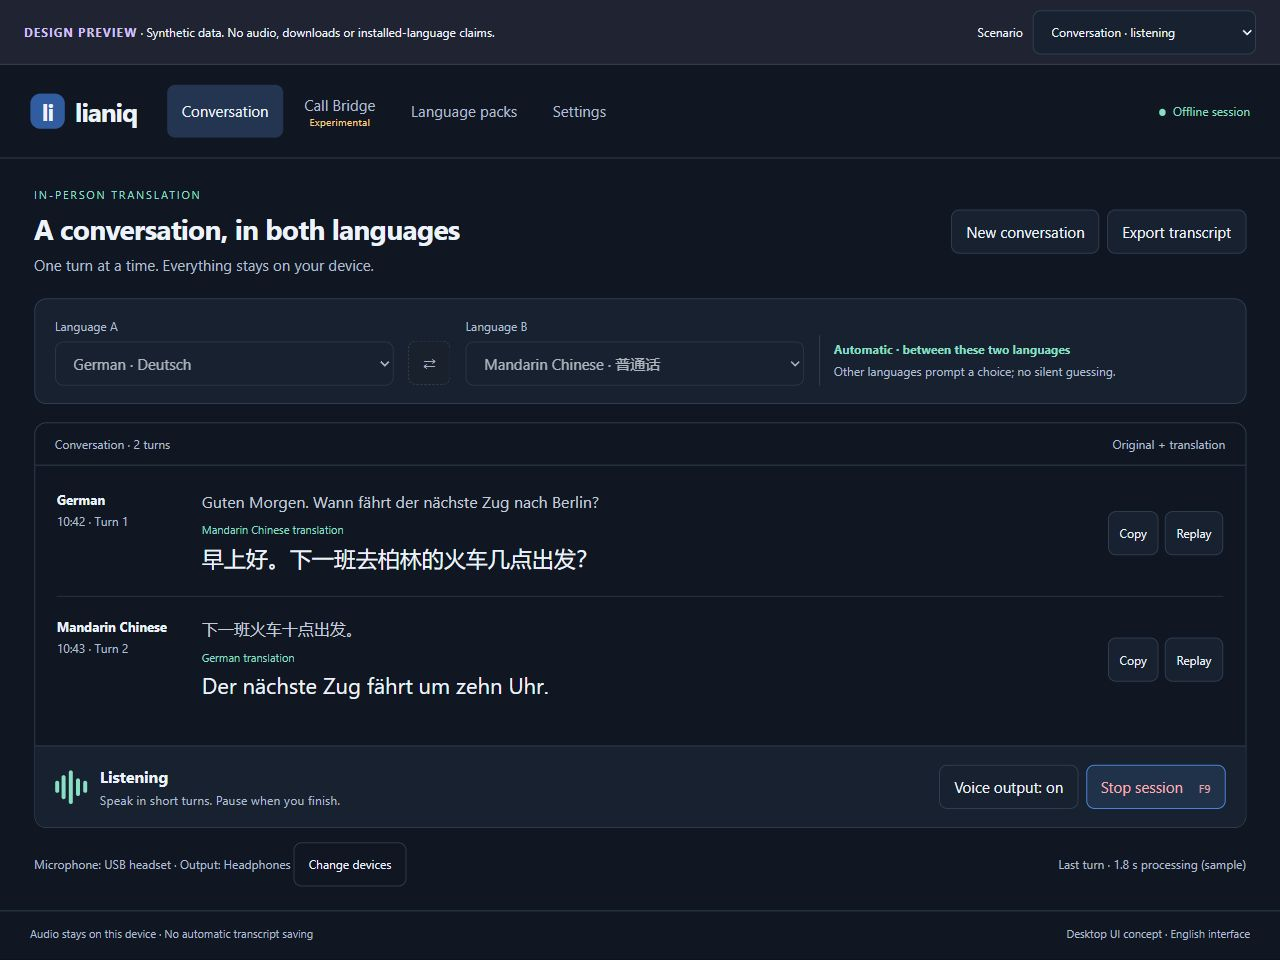
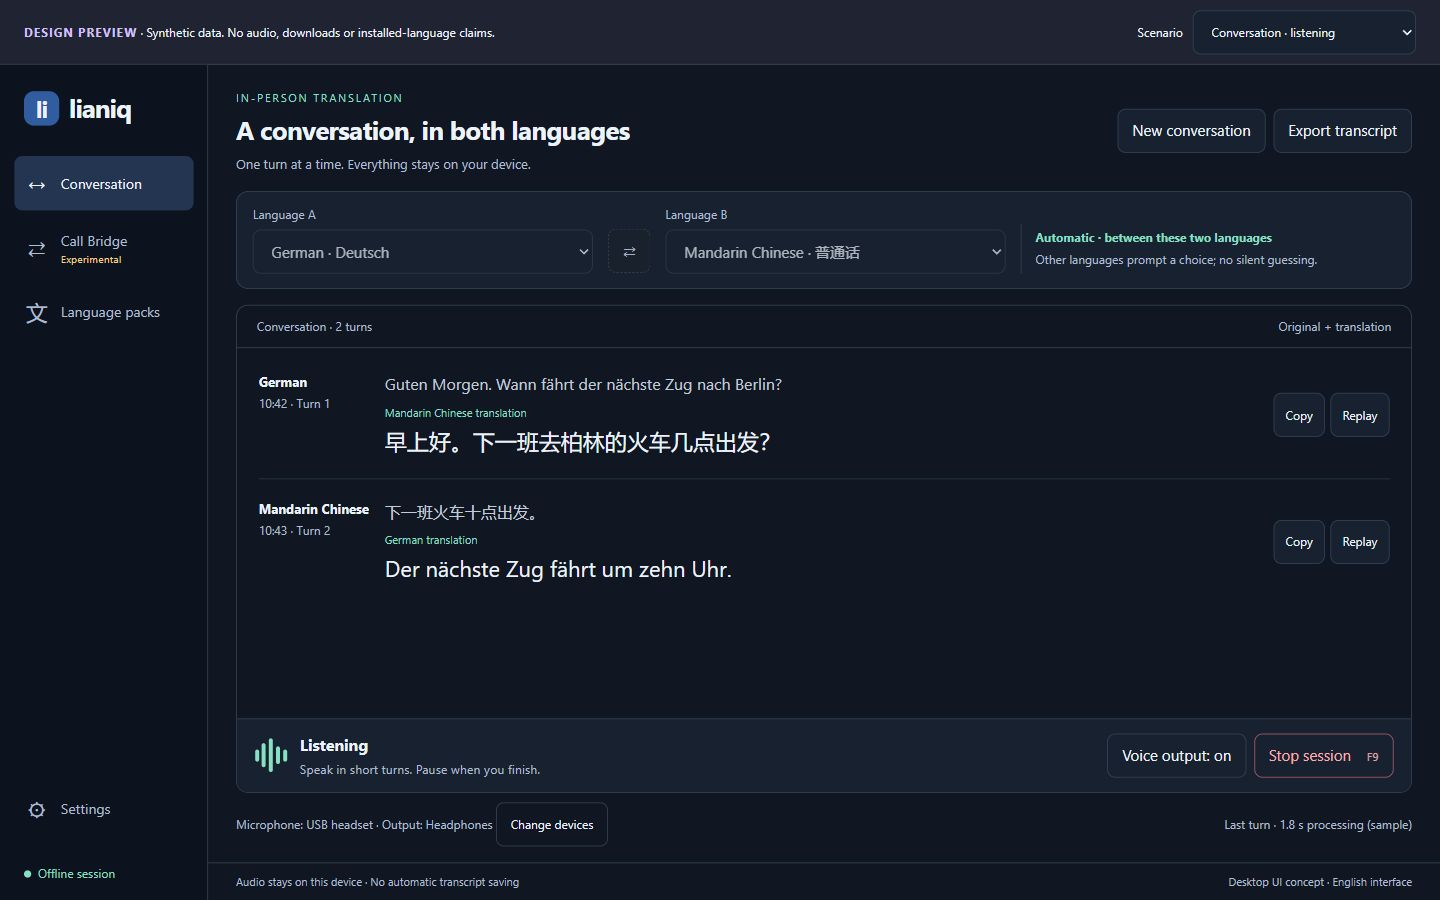
docs: revise target UI for left navigation and landscape desktop

diff --git a/docs/ui/target/styles.css b/docs/ui/target/styles.css
@@ -4,3 +4,106 @@
 @media(max-width:1050px){.app-header{gap:18px;flex-wrap:wrap}.privacy{margin-left:auto}.app-header nav{order:3;flex-basis:100%}.pair-bar{grid-template-columns:1fr auto 1fr}.pair-note{grid-column:1/-1;border-left:0;padding:0;border-top:1px solid var(--line);padding-top:10px}.turn{grid-template-columns:95px 1fr}.turn-actions{grid-column:2}.two-col{gap:14px}.preview-bar{flex-wrap:wrap}}
 @media(max-width:720px){main{padding:20px 16px}.app-header{padding:16px}.app-header nav{flex-wrap:wrap}.app-header nav button{flex:1}.heading,.session-controls,.device-strip,.bridge-footer,.app-footer{align-items:flex-start;flex-direction:column}.two-col,.setup{grid-template-columns:1fr}.pair-bar{padding:14px;gap:10px}.pair-bar label{font-size:11px}.pair-bar select{font-size:13px;padding:9px 5px}.swap{padding:9px}.turn{grid-template-columns:1fr;gap:9px}.turn-actions{grid-column:1}.turn-meta{display:flex;gap:12px}.translation{font-size:20px}.pack{grid-template-columns:1fr 1fr}.table-head{display:none}.settings-fields{grid-template-columns:1fr}.steps{display:flex;flex-wrap:wrap;gap:5px;font-size:12px}.steps li{padding:8px}.preview-bar{padding:10px 16px}.preview-bar label{width:100%}.preview-bar select{max-width:100%;flex:1}.app-footer{gap:5px}.route-bottom{flex-wrap:wrap}}
 @media(prefers-reduced-motion:reduce){*{scroll-behavior:auto}}
+
+/* Desktop shell: persistent left navigation and a landscape workspace. */
+.app {
+  display:grid;
+  grid-template-columns:208px minmax(0,1fr);
+  grid-template-rows:minmax(0,1fr) auto;
+  max-width:none;
+  height:calc(100vh - 65px);
+  min-height:0;
+}
+.app-header {
+  grid-row:1 / -1;
+  display:flex;
+  flex-direction:column;
+  align-items:stretch;
+  flex-wrap:nowrap;
+  gap:28px;
+  padding:24px 14px 18px;
+  border-bottom:0;
+  border-right:1px solid var(--line);
+  background:#0c131e;
+  min-height:0;
+  overflow:auto;
+}
+.brand {padding:0 10px}
+.app-header nav {
+  display:flex;
+  flex-direction:column;
+  gap:8px;
+  flex:1;
+  order:initial;
+}
+.app-header nav button {
+  display:flex;
+  align-items:center;
+  gap:12px;
+  text-align:left;
+  min-height:48px;
+  padding:10px;
+  flex:none;
+}
+.app-header nav button:last-child {margin-top:auto}
+.nav-icon {width:24px;flex-shrink:0;text-align:center;font-size:22px}
+.nav-label {font-size:14px}
+.tiny {margin-top:4px}
+.privacy {margin:0;padding:0 10px}
+main {min-width:0;min-height:0;overflow:auto;padding:24px 28px 16px}
+.app-footer {grid-column:2;padding:10px 28px;font-size:11px}
+.heading {margin-bottom:18px;gap:16px}
+h1 {font-size:26px}
+.heading p {font-size:13px}
+.pair-bar {padding:14px 16px;margin-bottom:16px;grid-template-columns:minmax(0,1fr) auto minmax(0,1fr) minmax(0,1.1fr)}
+.pair-note {grid-column:auto;border-top:0;border-left:1px solid var(--line);padding:5px 0 5px 14px}
+.two-col {grid-template-columns:minmax(0,1fr) minmax(0,1fr)}
+.panel {padding:18px}
+.route-head {margin-bottom:16px}
+.route-step {padding-bottom:14px}
+.route-bottom {margin-top:14px;padding-top:12px}
+.help {margin:14px 0;padding:12px 15px}
+.bridge-footer {margin-top:14px}
+.pack {padding:15px 0;grid-template-columns:minmax(130px,1fr) 1.2fr 1fr auto}
+.table-head {grid-template-columns:minmax(130px,1fr) 1.2fr 1fr auto}
+main[data-surface="conversation"] {display:flex;flex-direction:column}
+.conversation {display:flex;flex-direction:column;flex:1;min-height:260px}
+.turns {min-height:0;flex:1;overflow:auto}
+.turn {grid-template-columns:110px minmax(0,1fr) auto;gap:16px}
+.turn-actions {grid-column:auto}
+.session-controls {flex-shrink:0;padding:14px 18px}
+.empty {min-height:240px}
+.device-strip {margin-top:10px}
+.setup {grid-template-columns:180px minmax(0,1fr);gap:24px}
+main[data-surface="bridge"] .panel {padding:14px}
+main[data-surface="bridge"] .route-head {margin-bottom:10px}
+main[data-surface="bridge"] .route-step {padding-bottom:8px}
+main[data-surface="bridge"] .route-bottom {margin-top:10px;padding-top:10px}
+main[data-surface="bridge"] .banner {padding:10px 16px;margin-bottom:12px}
+main[data-surface="bridge"] .help {margin:10px 0;padding:10px 14px}
+main[data-surface="bridge"] .bridge-footer {position:sticky;bottom:0;background:var(--bg);padding:10px 0;margin-top:0}
+@media(max-width:1150px) {
+  .app {grid-template-columns:72px minmax(0,1fr)}
+  .app-header {padding:20px 10px 14px}
+  .brand {font-size:0;padding:0;justify-content:center;gap:0}
+  .brand-mark {font-size:23px}
+  .nav-label,.privacy {display:none}
+  .app-header nav button {justify-content:center;padding:10px 0}
+  main {padding:20px}
+  .heading {flex-wrap:wrap}
+  .pair-bar {grid-template-columns:minmax(0,1fr) auto minmax(0,1fr)}
+  .pair-note {grid-column:1/-1;border-left:0;border-top:1px solid var(--line);padding:8px 0 0}
+  .turn {grid-template-columns:90px minmax(0,1fr)}
+  .turn-actions {grid-column:2}
+  .session-controls {flex-wrap:wrap}
+}
+@media(max-width:760px) {
+  .app {height:calc(100vh - 114px)}
+  .two-col,.setup {grid-template-columns:minmax(0,1fr)}
+  .pack {grid-template-columns:minmax(0,1fr) minmax(0,1fr)}
+  .table-head {display:none}
+  .heading,.session-controls,.device-strip,.bridge-footer {align-items:flex-start;flex-direction:column}
+  .turn {grid-template-columns:minmax(0,1fr)}
+  .turn-actions {grid-column:1}
+  .app-footer {padding:10px 20px}
+}

diff --git a/docs/ui/target/preview.js b/docs/ui/target/preview.js
@@ -56,6 +56,7 @@ function setup() {
   setupStep===1?'<p>Generic devices below illustrate the setup flow.</p><div class="settings-fields"><label class="field">Microphone<select><option>USB headset · microphone</option></select></label><label class="field">Playback device<select><option>Headphones · local playback</option></select></label></div><div class="actions"><button data-action="mic-test">Test microphone</button><button data-action="speaker-test">Play test sound</button><button data-action="refresh">Refresh devices</button></div><div class="help">A disconnected or ambiguous device requires your attention. Call Bridge never switches silently to Windows default audio.</div>':`<p>${name(first)} ↔ ${name(second)}</p><div class="help"><strong>Example readiness summary</strong><br>✓ Speech recognition for both selected languages<br>✓ Both translation directions<br>✓ Microphone and headphones selected<br>Voice output is optional for in-person text translation.</div><label class="check"><input type="checkbox" ${voicesReady()?'checked':'disabled'}> Enable spoken translations when both voices are ready</label><p class="muted">No transcript is saved automatically. Export only when you choose.</p>`) + `<div class="bridge-footer"><button data-action="setup-back" ${setupStep===0?'disabled':''}>Back</button><button class="primary" data-action="setup-next" ${!pairReady()?'disabled':''}>${setupStep===2?'Open conversation':'Continue'}</button></div></section></div>`;
 }
 function render() {
+  $('#content').dataset.surface = view();
   document.querySelectorAll('[data-view]').forEach(el=>el.removeAttribute('aria-current'));
   document.querySelector(`nav [data-view="${view()}"]`).setAttribute('aria-current','page');
   $('#scenario').value=state;

diff --git a/docs/ui/target/index.html b/docs/ui/target/index.html
@@ -25,16 +25,16 @@
     </select></label>
   </aside>
   <div class="app">
-    <header class="app-header">
+    <aside class="app-header" aria-label="Application sidebar">
       <a class="brand" href="#conversation" aria-label="Lianiq conversation"><span class="brand-mark">li</span>lianiq</a>
       <nav aria-label="Main navigation">
-        <button data-view="conversation">Conversation</button>
-        <button data-view="bridge">Call Bridge <span class="tiny">Experimental</span></button>
-        <button data-view="languages">Language packs</button>
-        <button data-view="setup">Settings</button>
+        <button data-view="conversation" title="Conversation" aria-label="Conversation"><span class="nav-icon" aria-hidden="true">↔</span><span class="nav-label">Conversation</span></button>
+        <button data-view="bridge" title="Call Bridge — experimental" aria-label="Call Bridge — experimental"><span class="nav-icon" aria-hidden="true">⇄</span><span class="nav-label">Call Bridge <span class="tiny">Experimental</span></span></button>
+        <button data-view="languages" title="Language packs" aria-label="Language packs"><span class="nav-icon" aria-hidden="true">文</span><span class="nav-label">Language packs</span></button>
+        <button data-view="setup" title="Settings" aria-label="Settings"><span class="nav-icon" aria-hidden="true">⚙</span><span class="nav-label">Settings</span></button>
       </nav>
       <span class="privacy"><span class="dot"></span>Offline session</span>
-    </header>
+    </aside>
     <main id="content"></main>
     <footer class="app-footer"><span>Audio stays on this device · No automatic transcript saving</span><span>Desktop UI concept · English interface</span></footer>
   </div>

diff --git a/docs/ui/target/verification.md b/docs/ui/target/verification.md
@@ -29,6 +29,15 @@ audio and full application tests are outside this artifact-only change.
 
 ## Limits
 
+### Left-navigation revision
+
+Following operator feedback, the proposal now uses a persistent left sidebar and a
+landscape workspace. All four primary views were checked at 1440x900, 1280x720 and
+850x560: the sidebar remained on the left and neither the document nor main panel
+overflowed horizontally. All seven screenshots were regenerated at 1440x900.
+At smaller widths the left sidebar becomes an accessible icon rail. Long setup content
+can scroll vertically; the bridge action bar stays visible at the bottom of its workspace.
+
 Audio tests, clipboard availability, file dialogs, pack provisioning, native accessibility,
 translation quality and real call behavior are not validated by these previews. The sample
 1.8-second processing label is illustrative, not a benchmark. Project membership was not

diff --git a/docs/ui/target/README.md b/docs/ui/target/README.md
@@ -32,6 +32,7 @@ executing it. The local browser preview is reviewable design intent, not native 
 
 ## Product and interaction contract
 
+- Desktop-first landscape layout: persistent left sidebar, Settings at the bottom, and a wide workspace. At smaller widths the sidebar becomes an accessible icon rail, never top tabs. Primary review sizes are 1440x900 and 1280x720; smaller windows are resilience checks.
 - Retain the dark, restrained visual identity. Use the transcript as the primary workspace.
 - Separate Conversation, experimental Call Bridge, Language packs and Settings. Stop must
   remain accessible across the real app while a session is active. The preview switches
